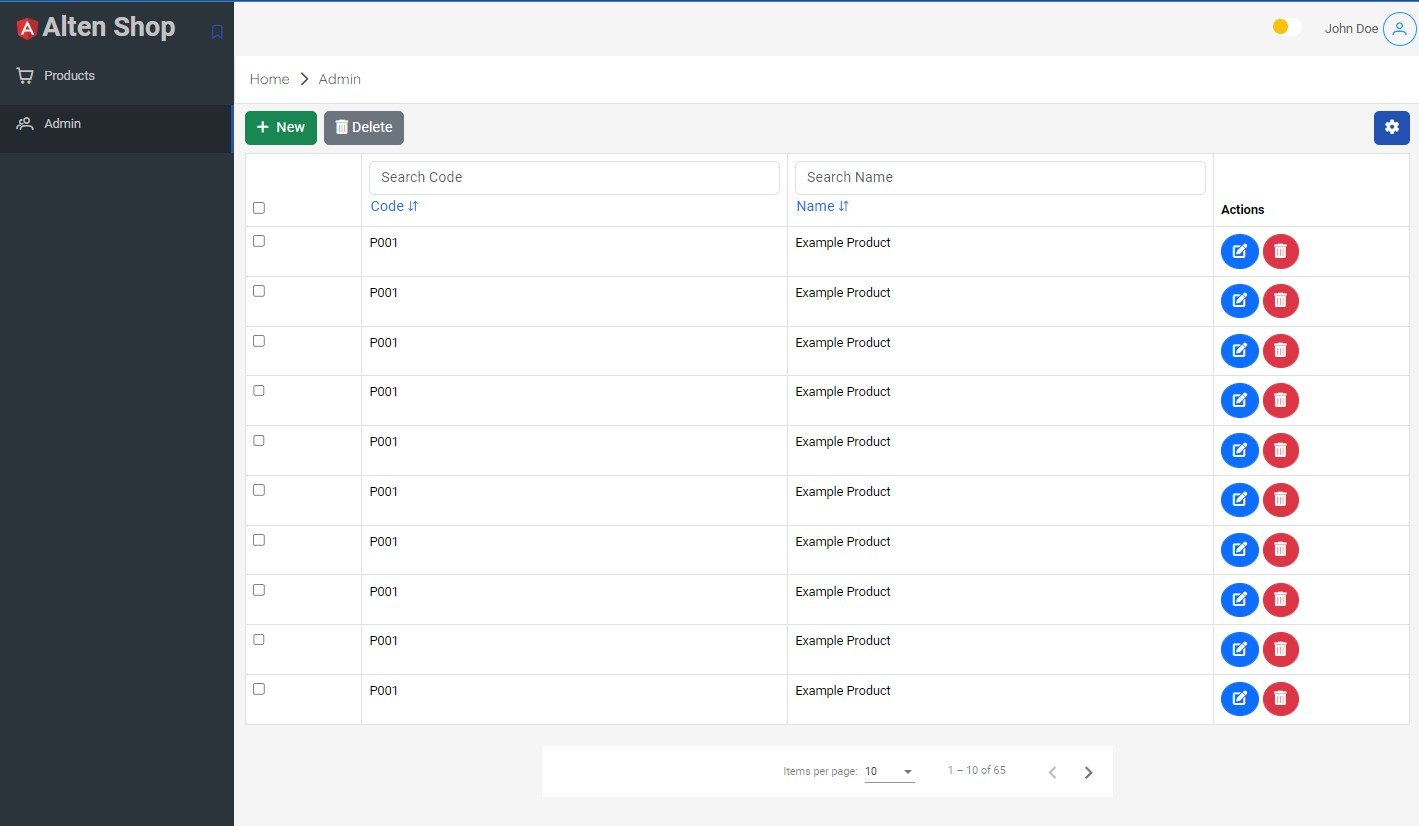
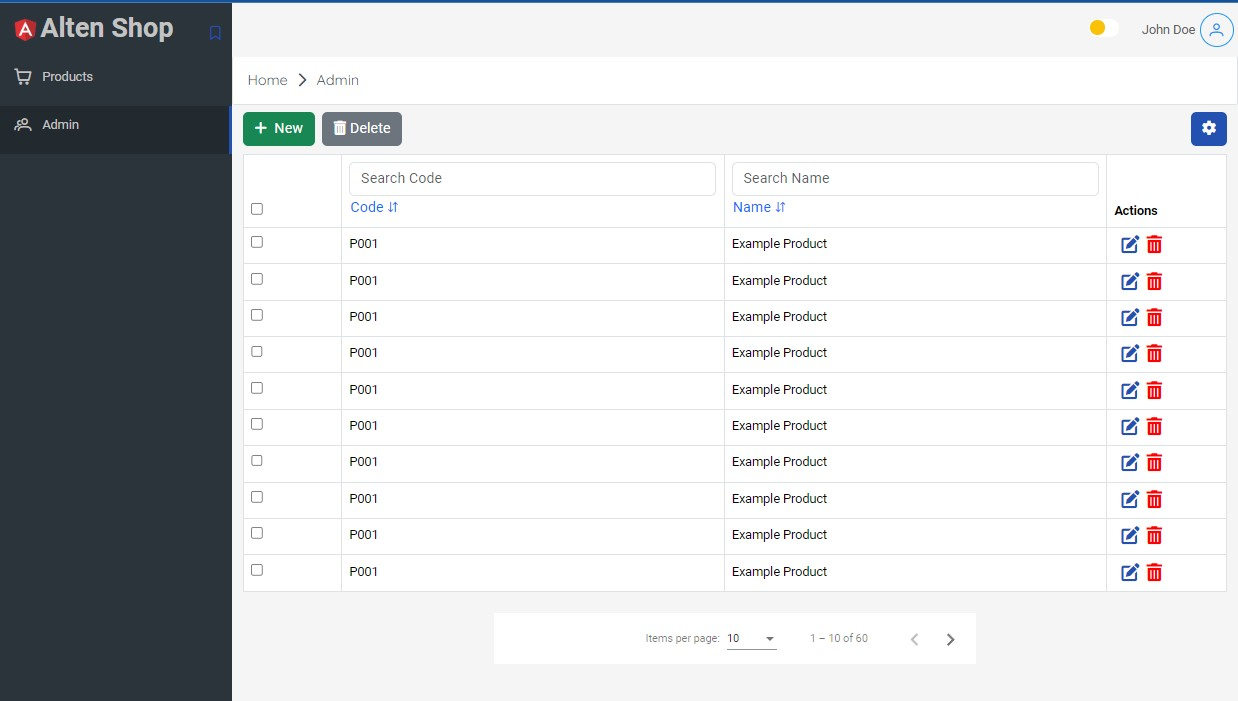
edit style products-admin.component

diff --git a/front/src/app/product/products-admin/products-admin.component.html b/front/src/app/product/products-admin/products-admin.component.html
@@ -35,8 +35,8 @@
         <td>{{ product.code }}</td>
         <td>{{ product.name }}</td>
         <td>
-          <button class="btn btn-primary me-1 rounded-circle" (click)="editProduct(product)"><i class="fas fa-edit"></i></button>
-          <button class="btn btn-danger rounded-circle" (click)="deleteProduct(product)"><i class="fas fa-trash-alt"></i></button>
+          <button class="icon-btn me-2 ms-2" (click)="editProduct(product)"><i class="fas fa-edit"></i></button>
+          <button class="icon-btn" (click)="deleteProduct(product)"><i class="fas fa-trash-alt"></i></button>
         </td>
       </tr>
     </tbody>

diff --git a/front/src/app/product/products-admin/products-admin.component.scss b/front/src/app/product/products-admin/products-admin.component.scss
@@ -3,19 +3,19 @@
     color: #fff;
     border: none;
   }
-  
+
   .settings-button:hover {
     background-color: #1a3d8f;
     color: #fff;
   }
-  
+
 
   .delete-button {
     background-color: #E0E0E0;
     color: #000;
     border: none;
   }
-  
+
   .delete-button:hover {
     background-color: #bdbdbd;
     color: #000;
@@ -24,6 +24,22 @@
   .no-decoration {
     text-decoration: none;
   }
-  
 
-  
+  .icon-btn {
+  background: none;
+  border: none;
+  padding: 0;
+  cursor: pointer;
+}
+
+.icon-btn i {
+  color: red;
+  font-size: 1.25rem;
+}
+
+.icon-btn.me-2 i {
+  color: #2251B1;
+}
+
+
+

diff --git a/backend-shop-products/src/main/java/com/dame/backend_shop_products/service/ProductService.java b/backend-shop-products/src/main/java/com/dame/backend_shop_products/service/ProductService.java
@@ -56,10 +56,14 @@ public class ProductService {
     }
 
 
+//    public void deleteProduct(Long id) {
+//        if (!productRepository.existsById(id)) {
+//            throw new ProductNotFoundException("No product found with this ID: " + id);
+//        }
+//        productRepository.deleteById(id);
+//    }
+
     public void deleteProduct(Long id) {
-        if (!productRepository.existsById(id)) {
-            throw new ProductNotFoundException("No product found with this ID: " + id);
-        }
         productRepository.deleteById(id);
     }
 
